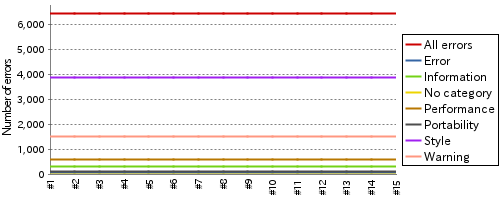
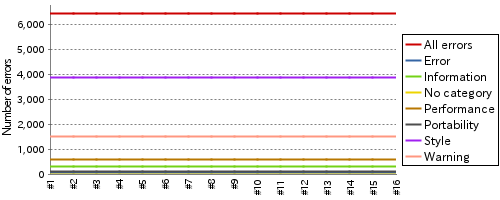
update report

diff --git a/index.md b/index.md
@@ -2,7 +2,7 @@
 layout: default
 ---
 # Jenkins CI report For HRG
-## Build and test report (2015/07/02 23:28:23)
+## Build and test report (2015/07/03 00:28:18)
 ### Build Status
 ___
 ![Build Status](http://jenkinshrg.github.io/images/badge.svg)
@@ -31,12 +31,13 @@ UNSTABLE
 * Stability
   
 ![Jenkins Icon](http://jenkinshrg.github.io/images/48x48/health-00to19.png)
-13%
+12%
   
 * Latest Results
   
 |Status|Time|Duration|Changes|Build|Test|Note|
 |---|---|---|---|---|---|---|
+|![Jenkins Icon](http://jenkinshrg.github.io/images/24x24/yellow.png)UNSTABLE|2015/07/03 00:00|28 min.||[BUILD](https://drive.google.com/file/d/0B54sHwaxmuM4Vng5OFVGUlFTVU0/view?usp=drivesdk) |[CONSOLE](https://drive.google.com/file/d/0B54sHwaxmuM4bXhybTVUNGd2N0U/view?usp=drivesdk) [IMAGE](https://drive.google.com/file/d/0B54sHwaxmuM4dXFvcGM3SHR2Qkk/edit?usp=drivesdk) [VIDEO](https://drive.google.com/file/d/0B54sHwaxmuM4YVdJMmk5cXZRcHM/edit?usp=drivesdk) |STOP RED|
 |![Jenkins Icon](http://jenkinshrg.github.io/images/24x24/yellow.png)UNSTABLE|2015/07/02 23:00|28 min.||[BUILD](https://drive.google.com/file/d/0B54sHwaxmuM4ZXJWdW4tdUZKQ2c/view?usp=drivesdk) |[CONSOLE](https://drive.google.com/file/d/0B54sHwaxmuM4dzJnUE1ibDZQbnc/view?usp=drivesdk) [IMAGE](https://drive.google.com/file/d/0B54sHwaxmuM4ZHRJckZna3pZZ3c/edit?usp=drivesdk) [VIDEO](https://drive.google.com/file/d/0B54sHwaxmuM4NGhBYjVlV1ZGTVE/edit?usp=drivesdk) |STOP NORMAL|
 |![Jenkins Icon](http://jenkinshrg.github.io/images/24x24/yellow.png)UNSTABLE|2015/07/02 22:00|28 min.||[BUILD](https://drive.google.com/file/d/0B54sHwaxmuM4ckFqc3ZDMHZwVEE/view?usp=drivesdk) |[CONSOLE](https://drive.google.com/file/d/0B54sHwaxmuM4THFFdjd1czF6SWM/view?usp=drivesdk) [IMAGE](https://drive.google.com/file/d/0B54sHwaxmuM4bnZjd1RfMFl6Z1E/edit?usp=drivesdk) [VIDEO](https://drive.google.com/file/d/0B54sHwaxmuM4dy1YN0Vob1NjU2M/edit?usp=drivesdk) |STOP NORMAL|
 |![Jenkins Icon](http://jenkinshrg.github.io/images/24x24/blue.png)SUCCESS|2015/07/02 21:00|28 min.|[CHANGES](https://drive.google.com/file/d/0B54sHwaxmuM4bDRfb0FsN3p4Wms/view?usp=drivesdk) |[BUILD](https://drive.google.com/file/d/0B54sHwaxmuM4QVI4UXV4WlFsYTA/view?usp=drivesdk) |[CONSOLE](https://drive.google.com/file/d/0B54sHwaxmuM4V2FXNFJDeGRrSHc/view?usp=drivesdk) [IMAGE](https://drive.google.com/file/d/0B54sHwaxmuM4SDN6MGZVS2RZelk/edit?usp=drivesdk) [VIDEO](https://drive.google.com/file/d/0B54sHwaxmuM4T2JsLTFVcWh4anM/edit?usp=drivesdk) | |
